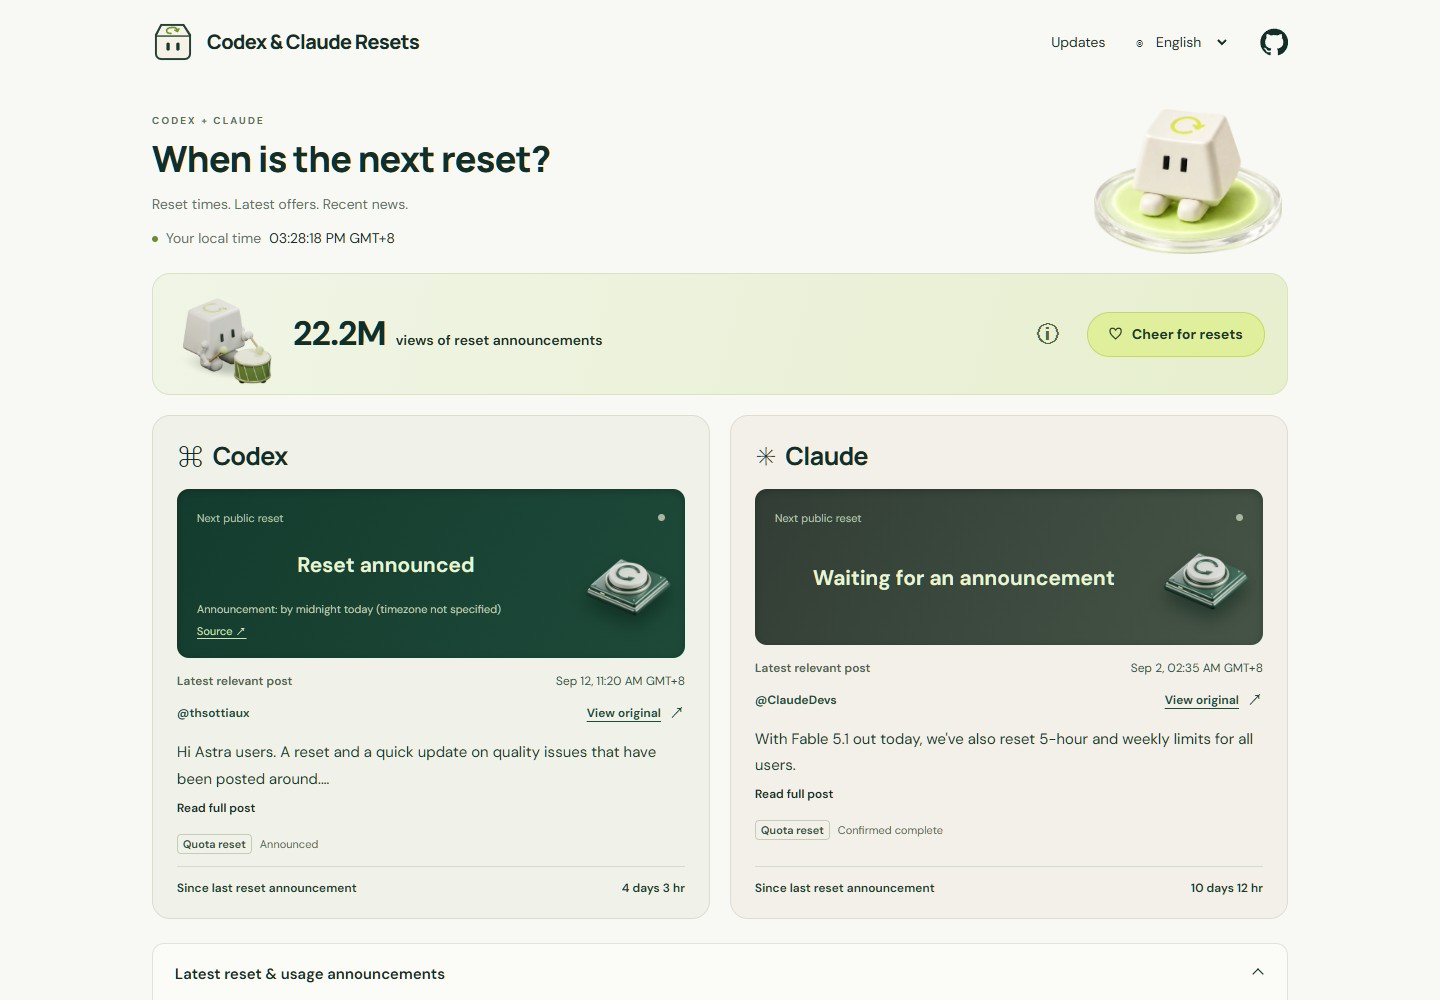
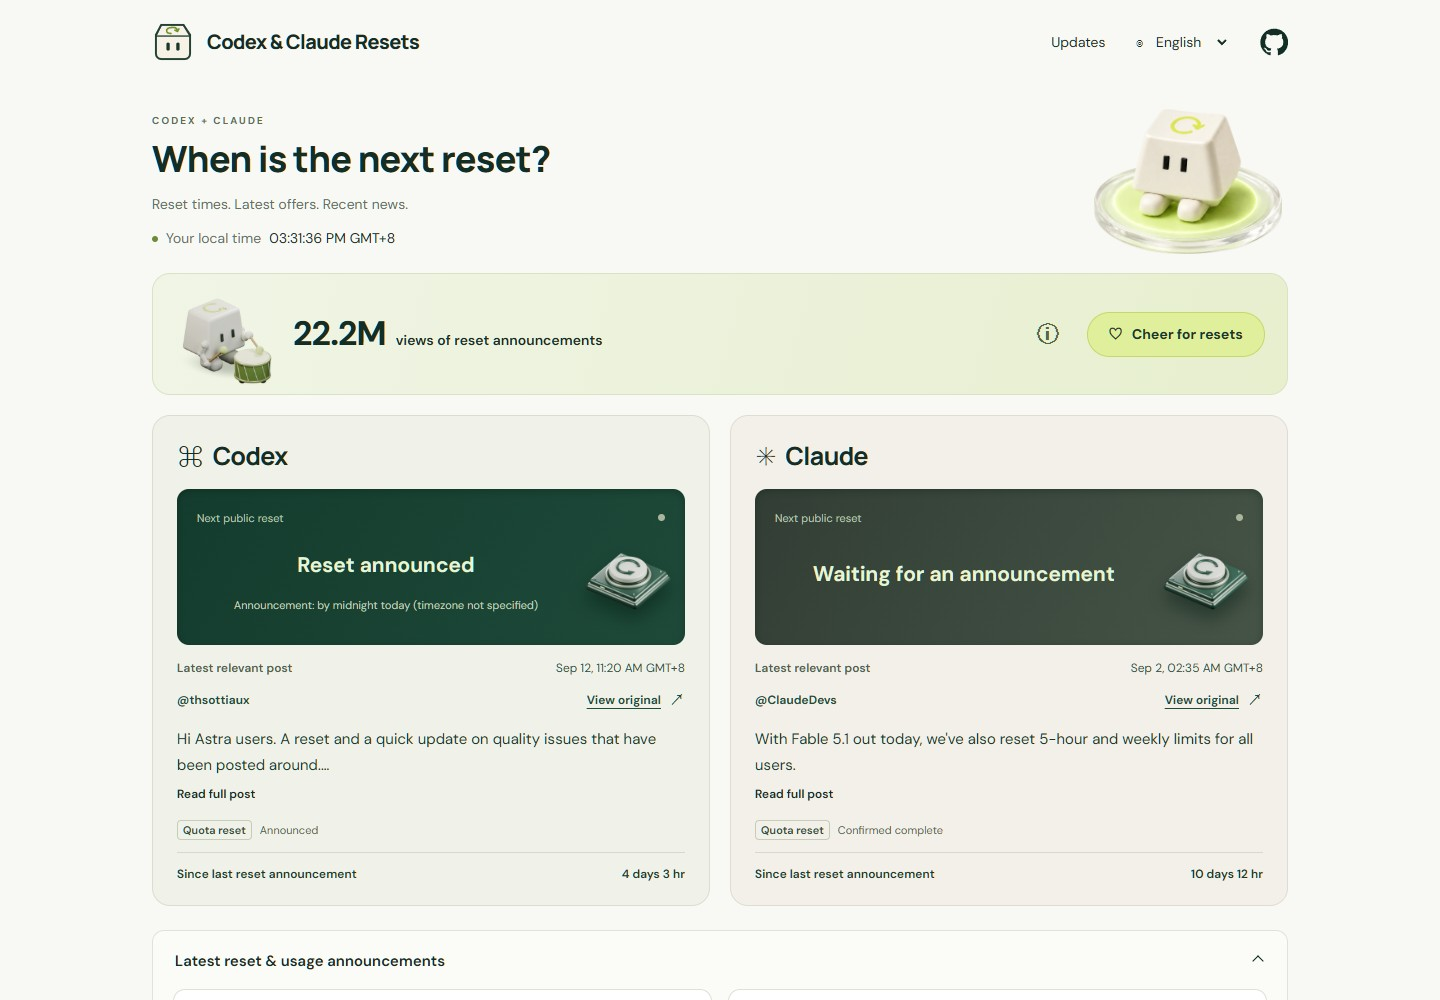
Center reset status text and remove duplicate source link

diff --git a/src/clocks.css b/src/clocks.css
@@ -12,7 +12,7 @@
 .platform-card:not([data-clock-state=running]):not([data-clock-state=announced]) .clock-colon{font-size:26px}
 @media(max-width:800px){.platform-card:not([data-clock-state=running]):not([data-clock-state=announced]) .clock-verdict{font-size:18px}}
 /* Automatic public-reset dashboard */
-.overview-title{min-height:155px;margin:12px 0 24px}.overview-kicker{font-size:10px;letter-spacing:2px;font-weight:700;color:#5b705a;margin:0 0 9px}.overview-intro{font-size:14px;color:#63715f;line-height:1.6;margin:10px 0}.overview-title .reset-mascot{width:190px;height:175px;bottom:-5px}.platform-card{padding:24px!important}.clock-face{margin-top:22px;min-height:180px;padding:18px 20px!important;overflow:hidden;background:linear-gradient(120deg,#143c2e,#1e4939)}.platform-card[data-platform=claude] .clock-face{background:linear-gradient(120deg,#323e35,#465447)}.clock-content{display:flex;align-items:center;min-height:135px;position:relative}.clock-reading{flex:1;min-width:0;z-index:1}.station-art{width:140px;height:140px;flex-shrink:0;position:relative;margin-inline-end:-12px;margin-inline-start:4px}.station-art img{width:100%;height:100%;object-fit:contain;filter:drop-shadow(0 10px 9px #00180d70);transition:transform .25s ease}.platform-card[data-watching=true] .station-art img{transform:translateY(-4px) rotate(-4deg)}.station-light{position:absolute;width:7px;height:7px;border-radius:50%;background:#bac8a0;inset-inline-end:23%;bottom:21%}.platform-card[data-watching=true] .station-light{background:#d4ff80;box-shadow:0 0 9px #c9ff69}.status-led{width:7px;height:7px;border-radius:50%;background:#aab69c}.platform-card[data-watching=true] .status-led{background:#d7fc9b}.platform-card .clock-verdict,.platform-card:not([data-clock-state=announced]) .clock-verdict{display:block;min-height:0;margin:12px 0!important;font-size:clamp(20px,2vw,26px);text-align:start;font-weight:600;line-height:1.38;color:#eff8e2}.clock-face .public-reset-time{text-align:start;font-size:11px;margin:8px 0 0;min-height:0;color:#c3d3bc}.last-reset{display:flex;justify-content:space-between;align-items:start;gap:16px;margin:20px 0 0;padding-bottom:17px;border-bottom:1px solid #d4dbca;font-size:11px;line-height:1.6}.last-reset>span{color:#5d6b55;flex-shrink:0}.last-reset a{text-align:end;color:#254531;font-weight:600}.clock-actions{margin-top:16px}.clock-actions button{min-height:46px;font-size:13px;box-shadow:0 3px 0 #b9cc8b;transition:transform .12s,background .2s,box-shadow .12s}.clock-actions button:active{transform:translateY(2px);box-shadow:0 1px 0 #b9cc8b}.clock-actions button[aria-pressed=true]{box-shadow:0 3px 0 #102a1f}.clock-secondary{margin-top:13px;min-height:20px}.clock-secondary a{margin-inline-start:auto}.clock-note,.alarm-note{font-size:11px;color:#596950}.live-controls{display:flex;justify-content:space-between;gap:16px;align-items:center;margin-top:15px;color:#64745c;font-size:11px;min-height:32px}.live-controls p{margin:0}.live-controls button{font-size:11px;border:0;background:none;text-decoration:underline;text-underline-offset:3px;color:#435f3f;min-height:32px;flex-shrink:0}.public-countdown{margin:15px 0 4px;gap:4px}.time-unit strong{font-size:clamp(27px,3.1vw,42px)!important;letter-spacing:-1px}.clock-colon{font-size:30px}.time-unit small{font-size:8px}.platform-card[data-clock-state=announced] .station-art{width:100px;height:120px}.latest-strip{display:none}.reset-overview{padding-bottom:5px}.offers-section{margin:24px 0 32px}
+.overview-title{min-height:155px;margin:12px 0 24px}.overview-kicker{font-size:10px;letter-spacing:2px;font-weight:700;color:#5b705a;margin:0 0 9px}.overview-intro{font-size:14px;color:#63715f;line-height:1.6;margin:10px 0}.overview-title .reset-mascot{width:190px;height:175px;bottom:-5px}.platform-card{padding:24px!important}.clock-face{margin-top:22px;min-height:180px;padding:18px 20px!important;overflow:hidden;background:linear-gradient(120deg,#143c2e,#1e4939)}.platform-card[data-platform=claude] .clock-face{background:linear-gradient(120deg,#323e35,#465447)}.clock-content{display:flex;align-items:center;min-height:135px;position:relative}.clock-reading{flex:1;min-width:0;z-index:1;text-align:center}.station-art{width:140px;height:140px;flex-shrink:0;position:relative;margin-inline-end:-12px;margin-inline-start:4px}.station-art img{width:100%;height:100%;object-fit:contain;filter:drop-shadow(0 10px 9px #00180d70);transition:transform .25s ease}.platform-card[data-watching=true] .station-art img{transform:translateY(-4px) rotate(-4deg)}.station-light{position:absolute;width:7px;height:7px;border-radius:50%;background:#bac8a0;inset-inline-end:23%;bottom:21%}.platform-card[data-watching=true] .station-light{background:#d4ff80;box-shadow:0 0 9px #c9ff69}.status-led{width:7px;height:7px;border-radius:50%;background:#aab69c}.platform-card[data-watching=true] .status-led{background:#d7fc9b}.platform-card .clock-verdict,.platform-card:not([data-clock-state=announced]) .clock-verdict{display:block;min-height:0;margin:0!important;font-size:clamp(20px,2vw,26px);text-align:center;font-weight:600;line-height:1.38;color:#eff8e2}.clock-face .public-reset-time{text-align:center;font-size:11px;margin:8px 0 0;min-height:0;color:#c3d3bc}.last-reset{display:flex;justify-content:space-between;align-items:start;gap:16px;margin:20px 0 0;padding-bottom:17px;border-bottom:1px solid #d4dbca;font-size:11px;line-height:1.6}.last-reset>span{color:#5d6b55;flex-shrink:0}.last-reset a{text-align:end;color:#254531;font-weight:600}.clock-actions{margin-top:16px}.clock-actions button{min-height:46px;font-size:13px;box-shadow:0 3px 0 #b9cc8b;transition:transform .12s,background .2s,box-shadow .12s}.clock-actions button:active{transform:translateY(2px);box-shadow:0 1px 0 #b9cc8b}.clock-actions button[aria-pressed=true]{box-shadow:0 3px 0 #102a1f}.clock-secondary{margin-top:13px;min-height:20px}.clock-secondary a{margin-inline-start:auto}.clock-note,.alarm-note{font-size:11px;color:#596950}.live-controls{display:flex;justify-content:space-between;gap:16px;align-items:center;margin-top:15px;color:#64745c;font-size:11px;min-height:32px}.live-controls p{margin:0}.live-controls button{font-size:11px;border:0;background:none;text-decoration:underline;text-underline-offset:3px;color:#435f3f;min-height:32px;flex-shrink:0}.public-countdown{margin:15px 0 4px;gap:4px}.time-unit strong{font-size:clamp(27px,3.1vw,42px)!important;letter-spacing:-1px}.clock-colon{font-size:30px}.time-unit small{font-size:8px}.platform-card[data-clock-state=announced] .station-art{width:100px;height:120px}.latest-strip{display:none}.reset-overview{padding-bottom:5px}.offers-section{margin:24px 0 32px}
 @media(max-width:900px){.platform-card{padding:18px!important}.station-art{width:105px;height:125px}.last-reset{flex-direction:column;gap:5px}.last-reset a{text-align:start}.clock-status{font-size:10px}.platform-card[data-clock-state=announced] .station-art{display:none}}
 @media(max-width:650px){.overview-title{min-height:137px;margin:7px 0 17px;padding-inline-end:107px}.overview-title .reset-mascot{width:112px;height:119px;bottom:12px}.overview-kicker{font-size:9px;letter-spacing:1px}.overview-intro{font-size:12px;margin:8px 0}.overview-title h1,html[lang] .overview-title h1{font-size:27px}.local-now{font-size:10px}.platform-card{padding:19px!important}.clock-face{margin-top:17px;min-height:165px;padding:15px 18px!important}.clock-content{min-height:119px}.station-art{width:125px;height:125px;margin-inline-end:-10px}.platform-card .clock-verdict,.platform-card:not([data-clock-state=announced]) .clock-verdict{font-size:23px}.last-reset{flex-direction:row;margin-top:16px;gap:12px}.last-reset a{text-align:end}.clock-actions button{font-size:13px}.clock-secondary{margin-top:9px}.platform-grid{gap:22px}.live-controls{align-items:start;font-size:10px}.live-controls p{line-height:1.6}.platform-card[data-clock-state=announced] .station-art{display:block;width:90px}.time-unit strong{font-size:32px!important}}
 @media(prefers-reduced-motion:reduce){.station-art img,.clock-actions button{transition:none!important;transform:none!important}}
